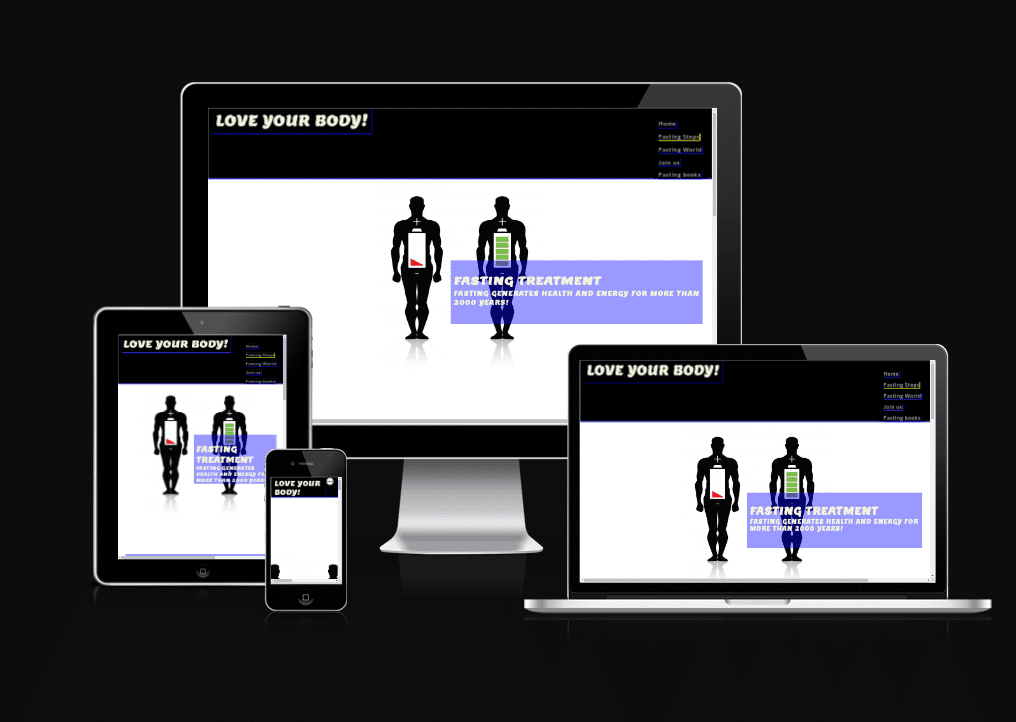
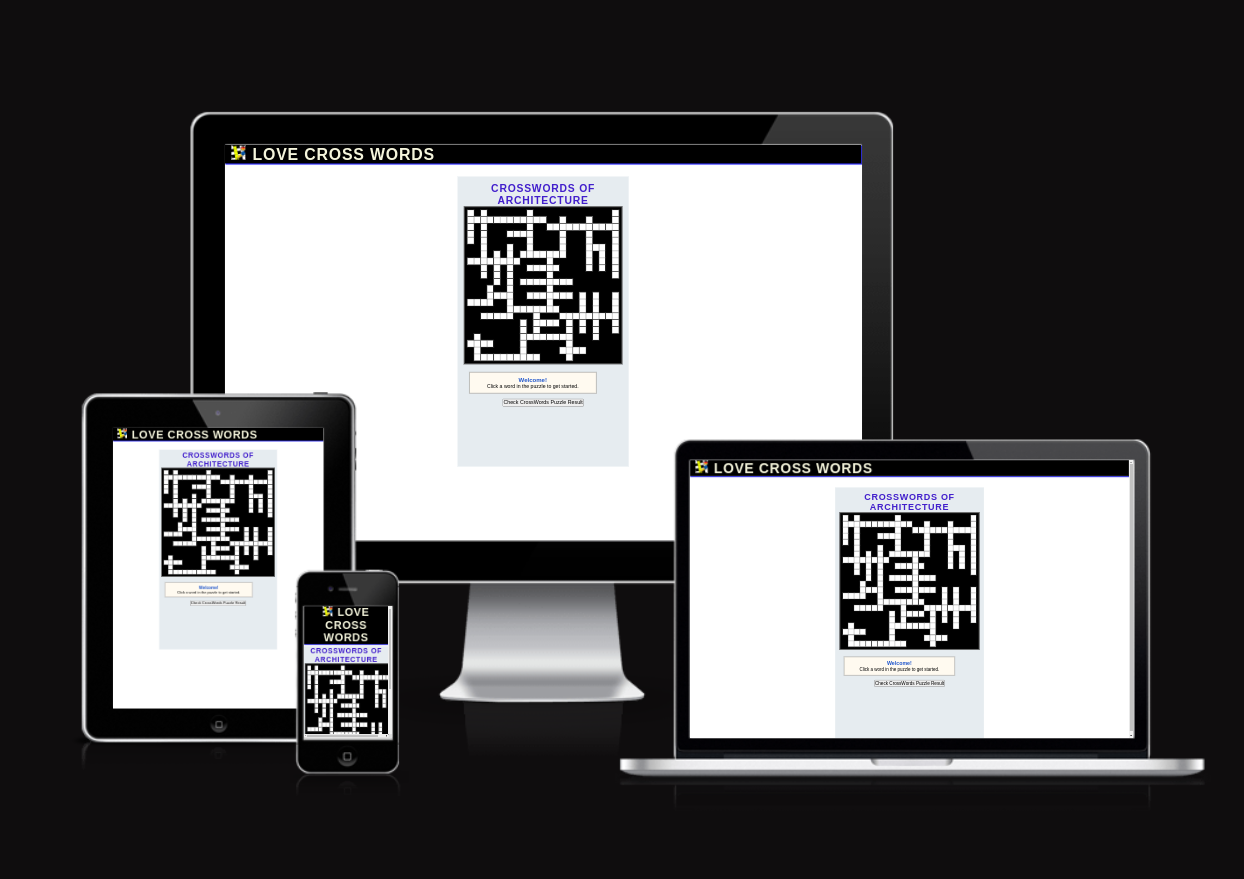
add device.png and site aims to readme

diff --git a/readme.md b/readme.md
@@ -6,7 +6,7 @@
 You can view the live site here - <a href="https://mohamedmesto.github.io/Love-CrossWords/" target="_blank"> Love Cross Words </a>
 
 ![Love Cross Words responsive design](assets/images/readme_images/devices.png)
-
+ 
 # Contents
 
 - [**_Love Cross Words (Think and play rationally forever) - Project Portfolio 2 - JavaScript_**](#love-cross-words-think-and-play-rationally-forever---project-portfolio-2---javascript)
@@ -16,7 +16,6 @@ You can view the live site here - <a href="https://mohamedmesto.github.io/Love-C
   - [Target Audience](#target-audience)
   - [User Stories](#user-stories)
   - [Site Aims](#site-aims)
-  - [Design the Episode](#design-the-episode)
   - [Site Structure](#site-structure)
   - [Design Choices](#design-choices)
     - [Colour Scheme](#colour-scheme)
@@ -47,7 +46,8 @@ You can view the live site here - <a href="https://mohamedmesto.github.io/Love-C
 
 # Objective
 
- The aim of this project is to practice fasting and stay healthy and full power. Moreover, to improve a person's daily life by increasing the ability to concentrate and increasing the efficiency of the body's systems. However, the Engaging in fasting can evoke a sense of inner strength, making individuals feel powerful as they experience heightened mental clarity and a renewed sense of vitality.
+ 
+The primary aim of our crossword puzzle application is to offer users an intellectually stimulating and entertaining experience. By presenting a diverse range of carefully crafted puzzles, our application seeks to challenge and enhance users' vocabulary, problem-solving skills, and cognitive agility. Through an intuitive and user-friendly interface, we aim to create an immersive environment that encourages individuals to engage in the joy of solving puzzles. Whether users are seeking a momentary mental escape or a daily dose of linguistic adventure, our application strives to cater to various skill levels, fostering a community of crossword enthusiasts who appreciate the satisfaction of cracking clues and unlocking the vast world of words.
 
 [Back to top](<#contents>)
 
@@ -55,32 +55,29 @@ You can view the live site here - <a href="https://mohamedmesto.github.io/Love-C
 
 ## Target Audience
 
-- The website caters to individuals seeking a holistic approach to health, targeting those interested in practicing fasting to enhance mental clarity, boost vitality, and improve overall well-being. It appeals to a diverse audience keen on integrating fasting into their lifestyles for optimal health and increased daily performance.
+- Our crossword puzzle application is designed to appeal to a broad spectrum of individuals who appreciate mental challenges and enjoy linguistic pursuits. It caters to crossword enthusiasts of all ages, from seasoned wordplay aficionados looking for a daily brain workout to beginners eager to embark on a journey of intellectual discovery. The application's user-friendly interface makes it accessible for both casual gamers seeking leisure and dedicated crossword solvers in search of a more immersive experience. With varying difficulty levels, our target audience includes anyone keen on enhancing their vocabulary, honing problem-solving skills, and finding enjoyment in the art of wordsmithing. Whether you're a crossword connoisseur or a newcomer to the world of word games, our application offers an engaging and inclusive platform for all.
 
 ## User Stories
 
-- A user should be able to determine the site's purpose immediately
-- A user should be able to easily and intuitively navigate the site
-- A user should be able to identify the content of each page easily
-- A user should be able to easily learn more about fasting
-- A user should feel comfortable Join using the business for more information or to book an event or visit the clinic
+- A user should be able to inter the Cross Words site's purpose immediately
+- A user should be able to easily and intuitively navigate the Cross Word game
+- A user should be able to identify the aim of each section of the Cross Word game's contents easily
+- A user should be able to easily learn more about mental stimulation and motivation
+- A user should feel comfortable using the solve feature when he could not giss the right word.
 
 ## Site Aims
-- To increase the user's awareness of how to live a healthy life with a lifestyle that does not require money, but rather requires will
-- Explain and share and fasting rules and benefits
-- To provide the user with all the information needed to Join us the clinic to book an medical consultation appointment
-- To offer a clear method to Join us the fasting compunity
-- To improve the sociaty quality in a warm, friendly and inviting manner
-- To showcase a visual compilation of completed fasting projects
-- To deliver a starting guide to the cost of services
-- Share this amazing cure with the whole planet to make the people as much as possible happy, strong and healthy
 
-## Design the Episode 
-Design the Episode Love Cross Words- Therapeutic Fasting - Dr.Otto Buchinger (the link is shown below) on the youtube chanel Tips From Europe
+1. **Architectural Education:** The application aims to serve as an educational platform, introducing users to architectural terminology, styles, and historical landmarks through crossword puzzles. By incorporating architectural themes into the puzzles, users can enhance their knowledge of the subject in an engaging and interactive way.
 
-The design and structure for this website was created in Video Editor.  
+2. **Promoting Cultural Awareness:** The crossword puzzles within the application are crafted to feature architectural wonders from various cultures and time periods. This not only enriches users with global architectural knowledge but also promotes cultural awareness and appreciation for diverse design styles and influences.
 
-[![Tips From Europe](https://github.com/MohamedMesto/MohamedMesto/blob/main/Images/heilfasten_profile.png)](https://www.youtube.com/watch?v=b122ta41eqY&t=67s)
+3. **Skill Development:** The application strives to improve users' problem-solving skills by challenging them to decipher architectural clues and fill in relevant terms within the puzzles. This not only stimulates cognitive abilities but also enhances their ability to recognize and recall architectural concepts.
+
+4. **Entertainment with a Purpose:** While providing an entertaining experience, the application has the additional aim of infusing purposeful content related to architecture. It seeks to balance enjoyment with educational value, making it an ideal platform for users who wish to combine leisure with learning about architectural history and principles.
+
+5. **Community Building:** Beyond individual play, the application fosters a community of architecture enthusiasts. Users can share their achievements, discuss architectural topics, and engage in collaborative puzzle-solving challenges. This community aspect aims to create a space where individuals passionate about architecture can connect, share insights, and collectively appreciate the beauty of the built environment.
+
+ 
 
 ## Site Structure
 
